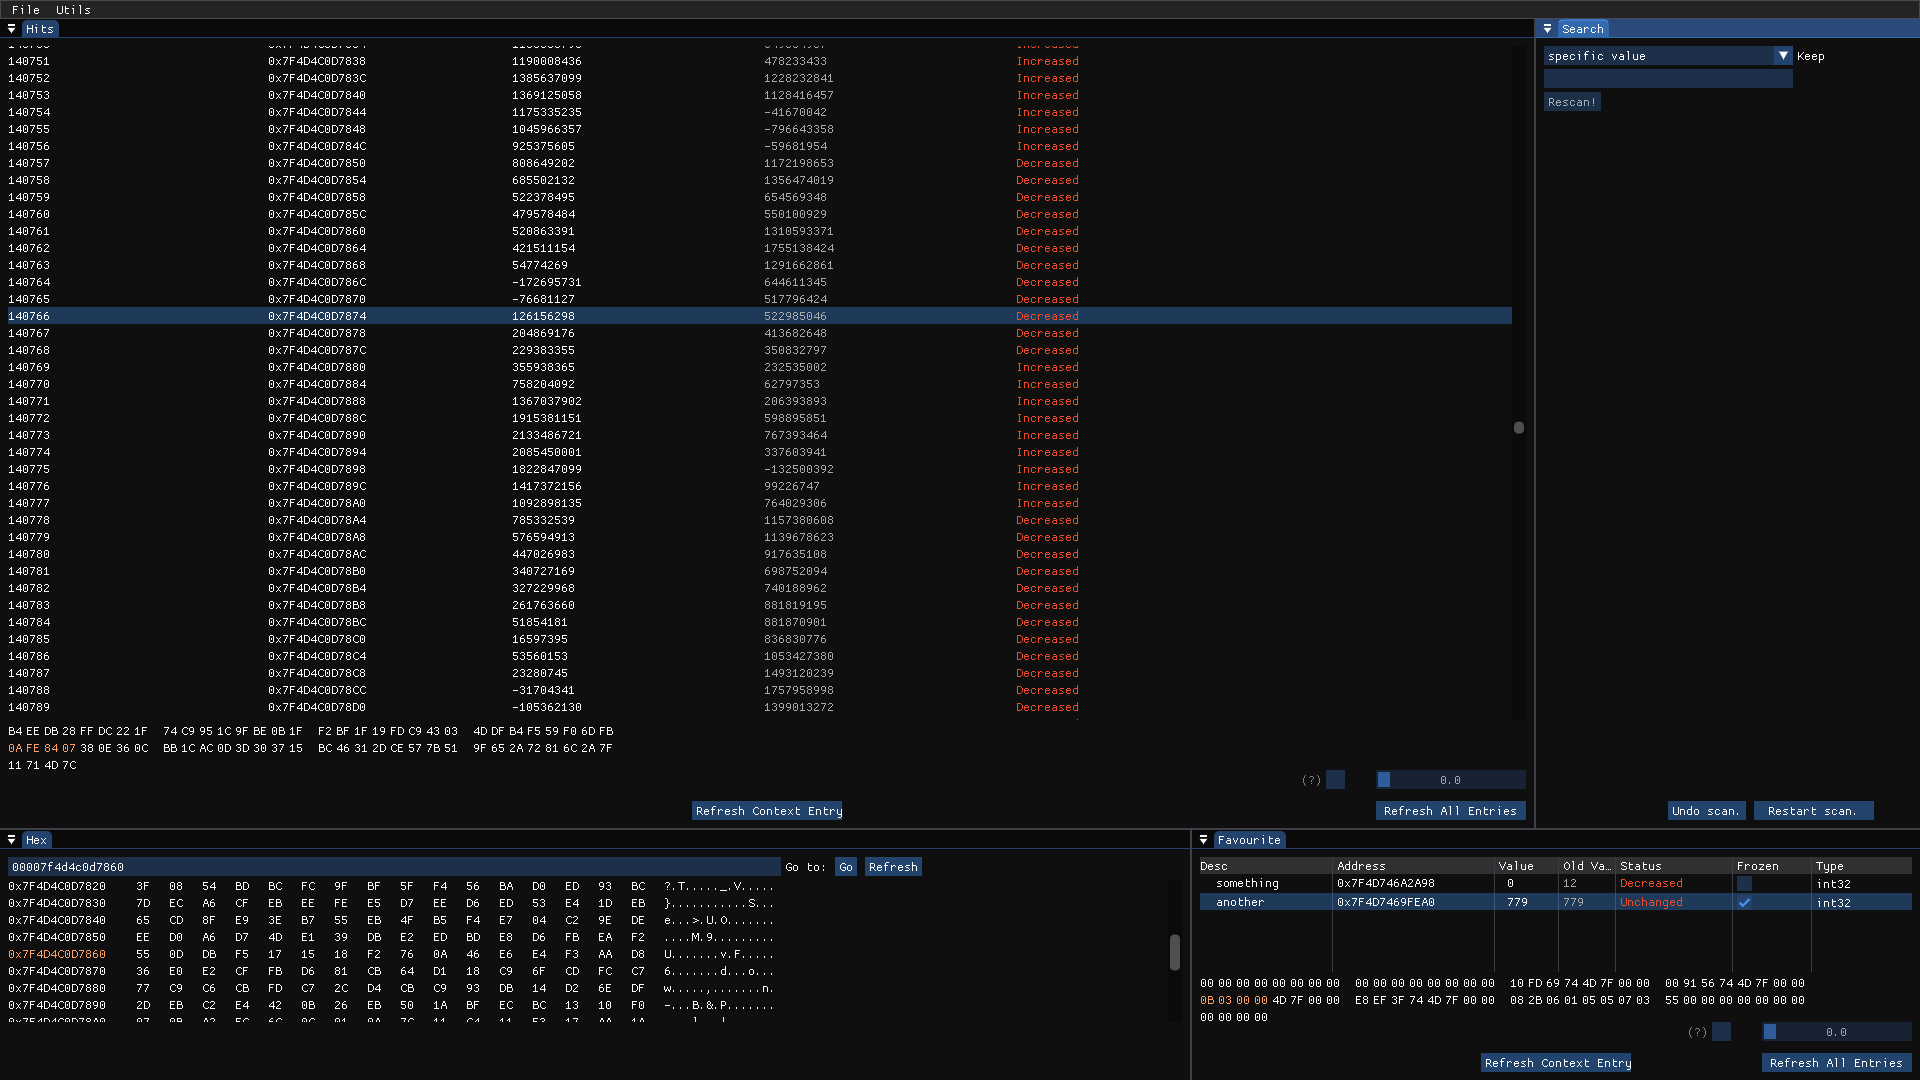
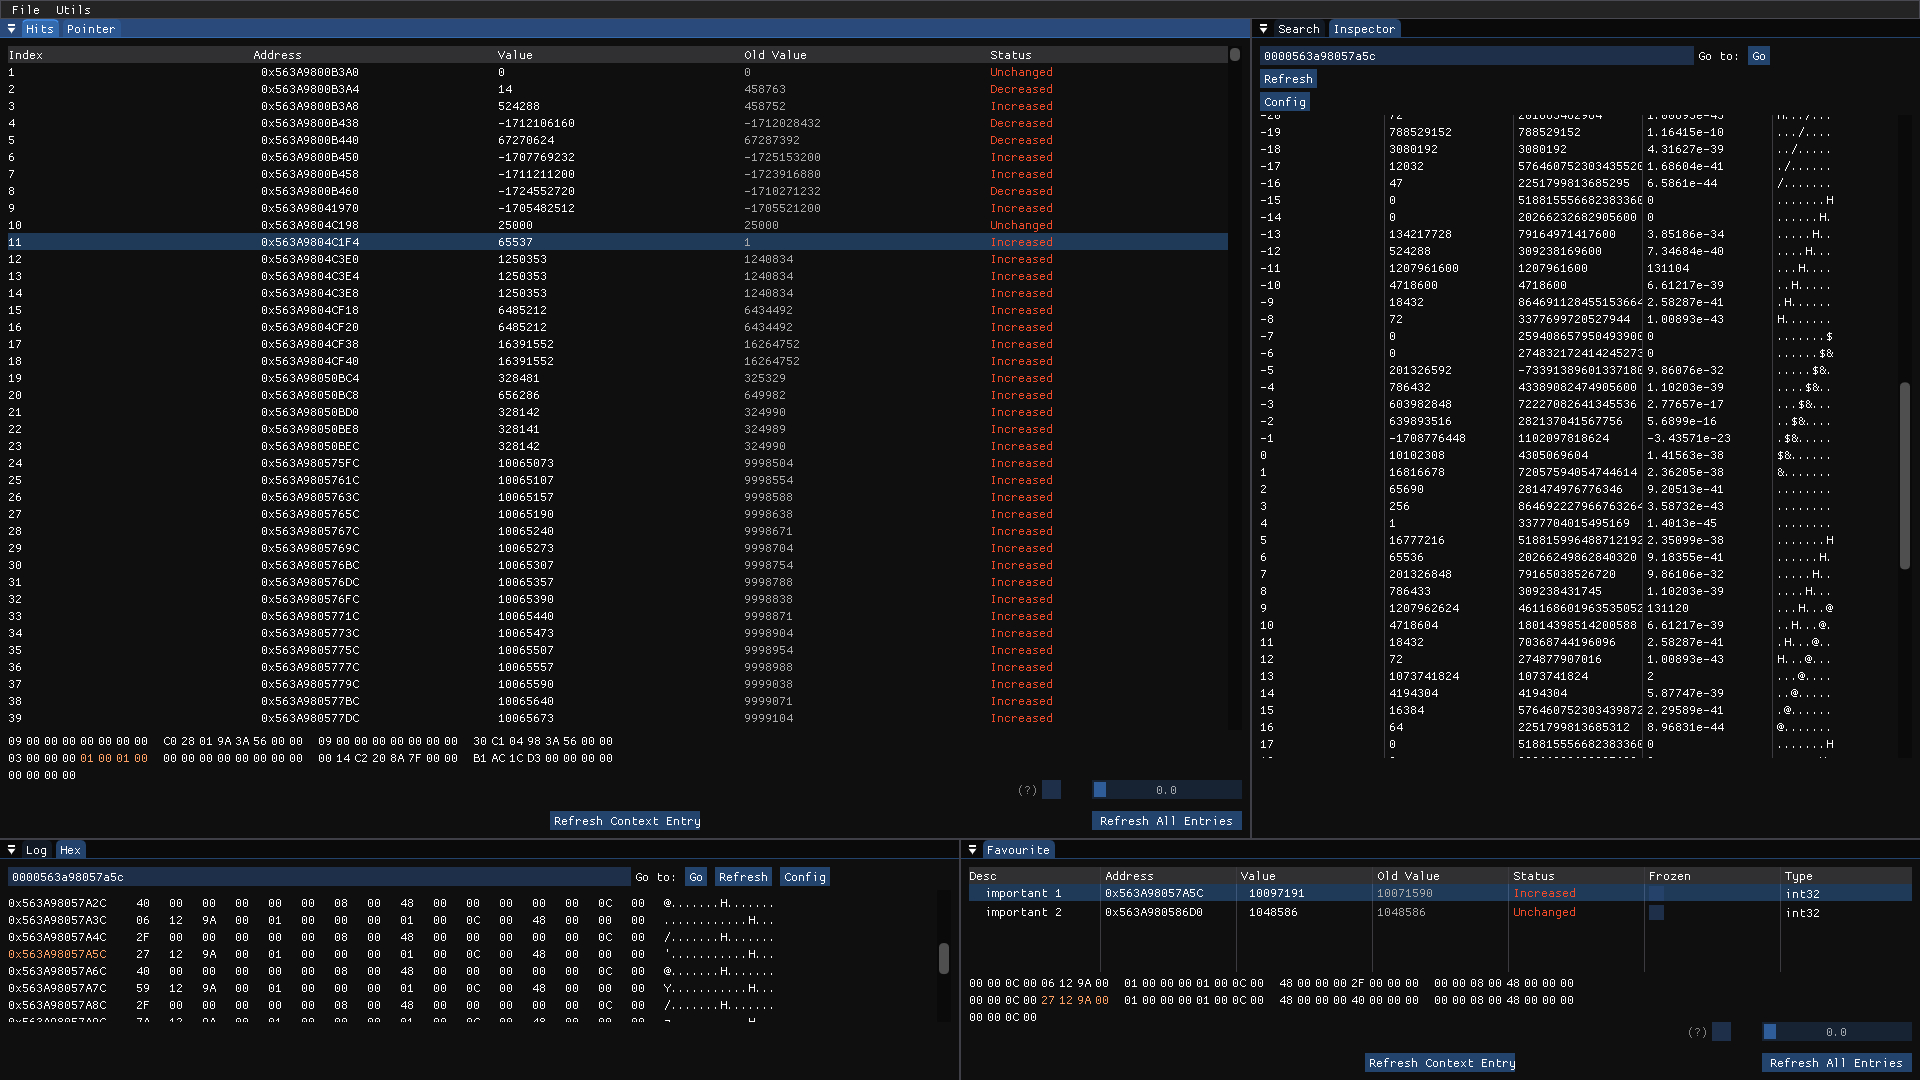
update screenshot

diff --git a/README.md b/README.md
@@ -5,13 +5,14 @@ A memory scanner made in C++ with Dear ImGui that is cross-platform (Linux and W
 **Heavily work in progress and unstable as of now.**
 
 ## Main Features
-- Search for values in primitive types (int8-64, float, double), in strings, or in AOB with wildcards, which returns "hits".
-- Filter those hits based on relative change (higher, lower, changed, unchanged) or by certain value.
+- *Search* for values in primitive types (int8-64, float, double), in strings, or in AOB with wildcards, which returns "hits".
+- *Filter* those hits based on relative change (higher, lower, changed, unchanged) or by certain value.
 - Edit the value of said hits.
-- Unknown value scanning. Takes a snapshot and marks hits based on changed or unchanged across the entire program.
-- A favourite section to pin addresses of interest, plus give them descriptions; and "freeze" them at certain values.
-- A hex viewer, where you can view and edit the bytes around an address in a detailed fashion (you can copy the address of a hit by right clicking, or you can copy the address of a region from Utils -> View Regions).
-- A Data inspector, where you can see bytes around an address interpreted as different data types on each offset.
+- *Pointer scanning*. Put in an address and it calculates chains that lead to said address (can configure depth, and bytes to scan before and after pointers). You can then filter said chains, and save a stable chain to favourites for future usages on the same program.
+- *Unknown value scanning*. Takes a snapshot and marks hits based on changed or unchanged across the entire program.
+- A *favourite section* to pin addresses of interest, plus give them descriptions; and "freeze" them at certain values.
+- A *hex viewer*, where you can view and edit the bytes around an address in a detailed fashion (you can copy the address of a hit by right clicking, or you can copy the address of a region from Utils -> View Regions).
+- A *Data inspector*, where you can see bytes around an address interpreted as different data types on each offset.
 
 ![screenshot](docs/screenshot.png)
 
@@ -57,7 +58,7 @@ Otherwise, `sudo ./build-linux/Tenken` to run with root. Or, `echo 0 | sudo tee 
 
 **Windows:** Run as administrator.
 
-Note: Windows Defender will probably flag the executable as malware. This happens because the program uses calls that malware may use (like `ReadProcessMemory` and `WriteProcessMemory`). You'll need to add an exception for it from Windows Defender.
+Note: Windows Defender will probably flag the executable as malware. This happens because the program uses calls that malware may use (like `ReadProcessMemory` and `WriteProcessMemory`). You'll need to add an exception for it in Windows Defender.
 
 ## License
 
@@ -68,7 +69,11 @@ GPL-3.0-or-later. See [LICENSE](LICENSE).
 
 ## Contributing
 
-I would highly appreciate any forms of feedback, criticism, and bug reports. You're encouraged to open an issue with that in mind.
+For feedbacks, criticism, bug reports, you can mail {}. (better, if you have my discord; just DM me about it there.)
+
+Code submissions will not be accepted.
+
+May enable issues if my mail gets too busy and insufficient.
 
 ## Author
 
@@ -85,4 +90,4 @@ Created and maintained by Hangyaku.
 
 This is a personal project, align your expectations accordingly.
 
-Also see [TODO.md](docs/TODO.md) for goals.
+Also see [TODOdmd](docs/TODO.dd) for goals.
